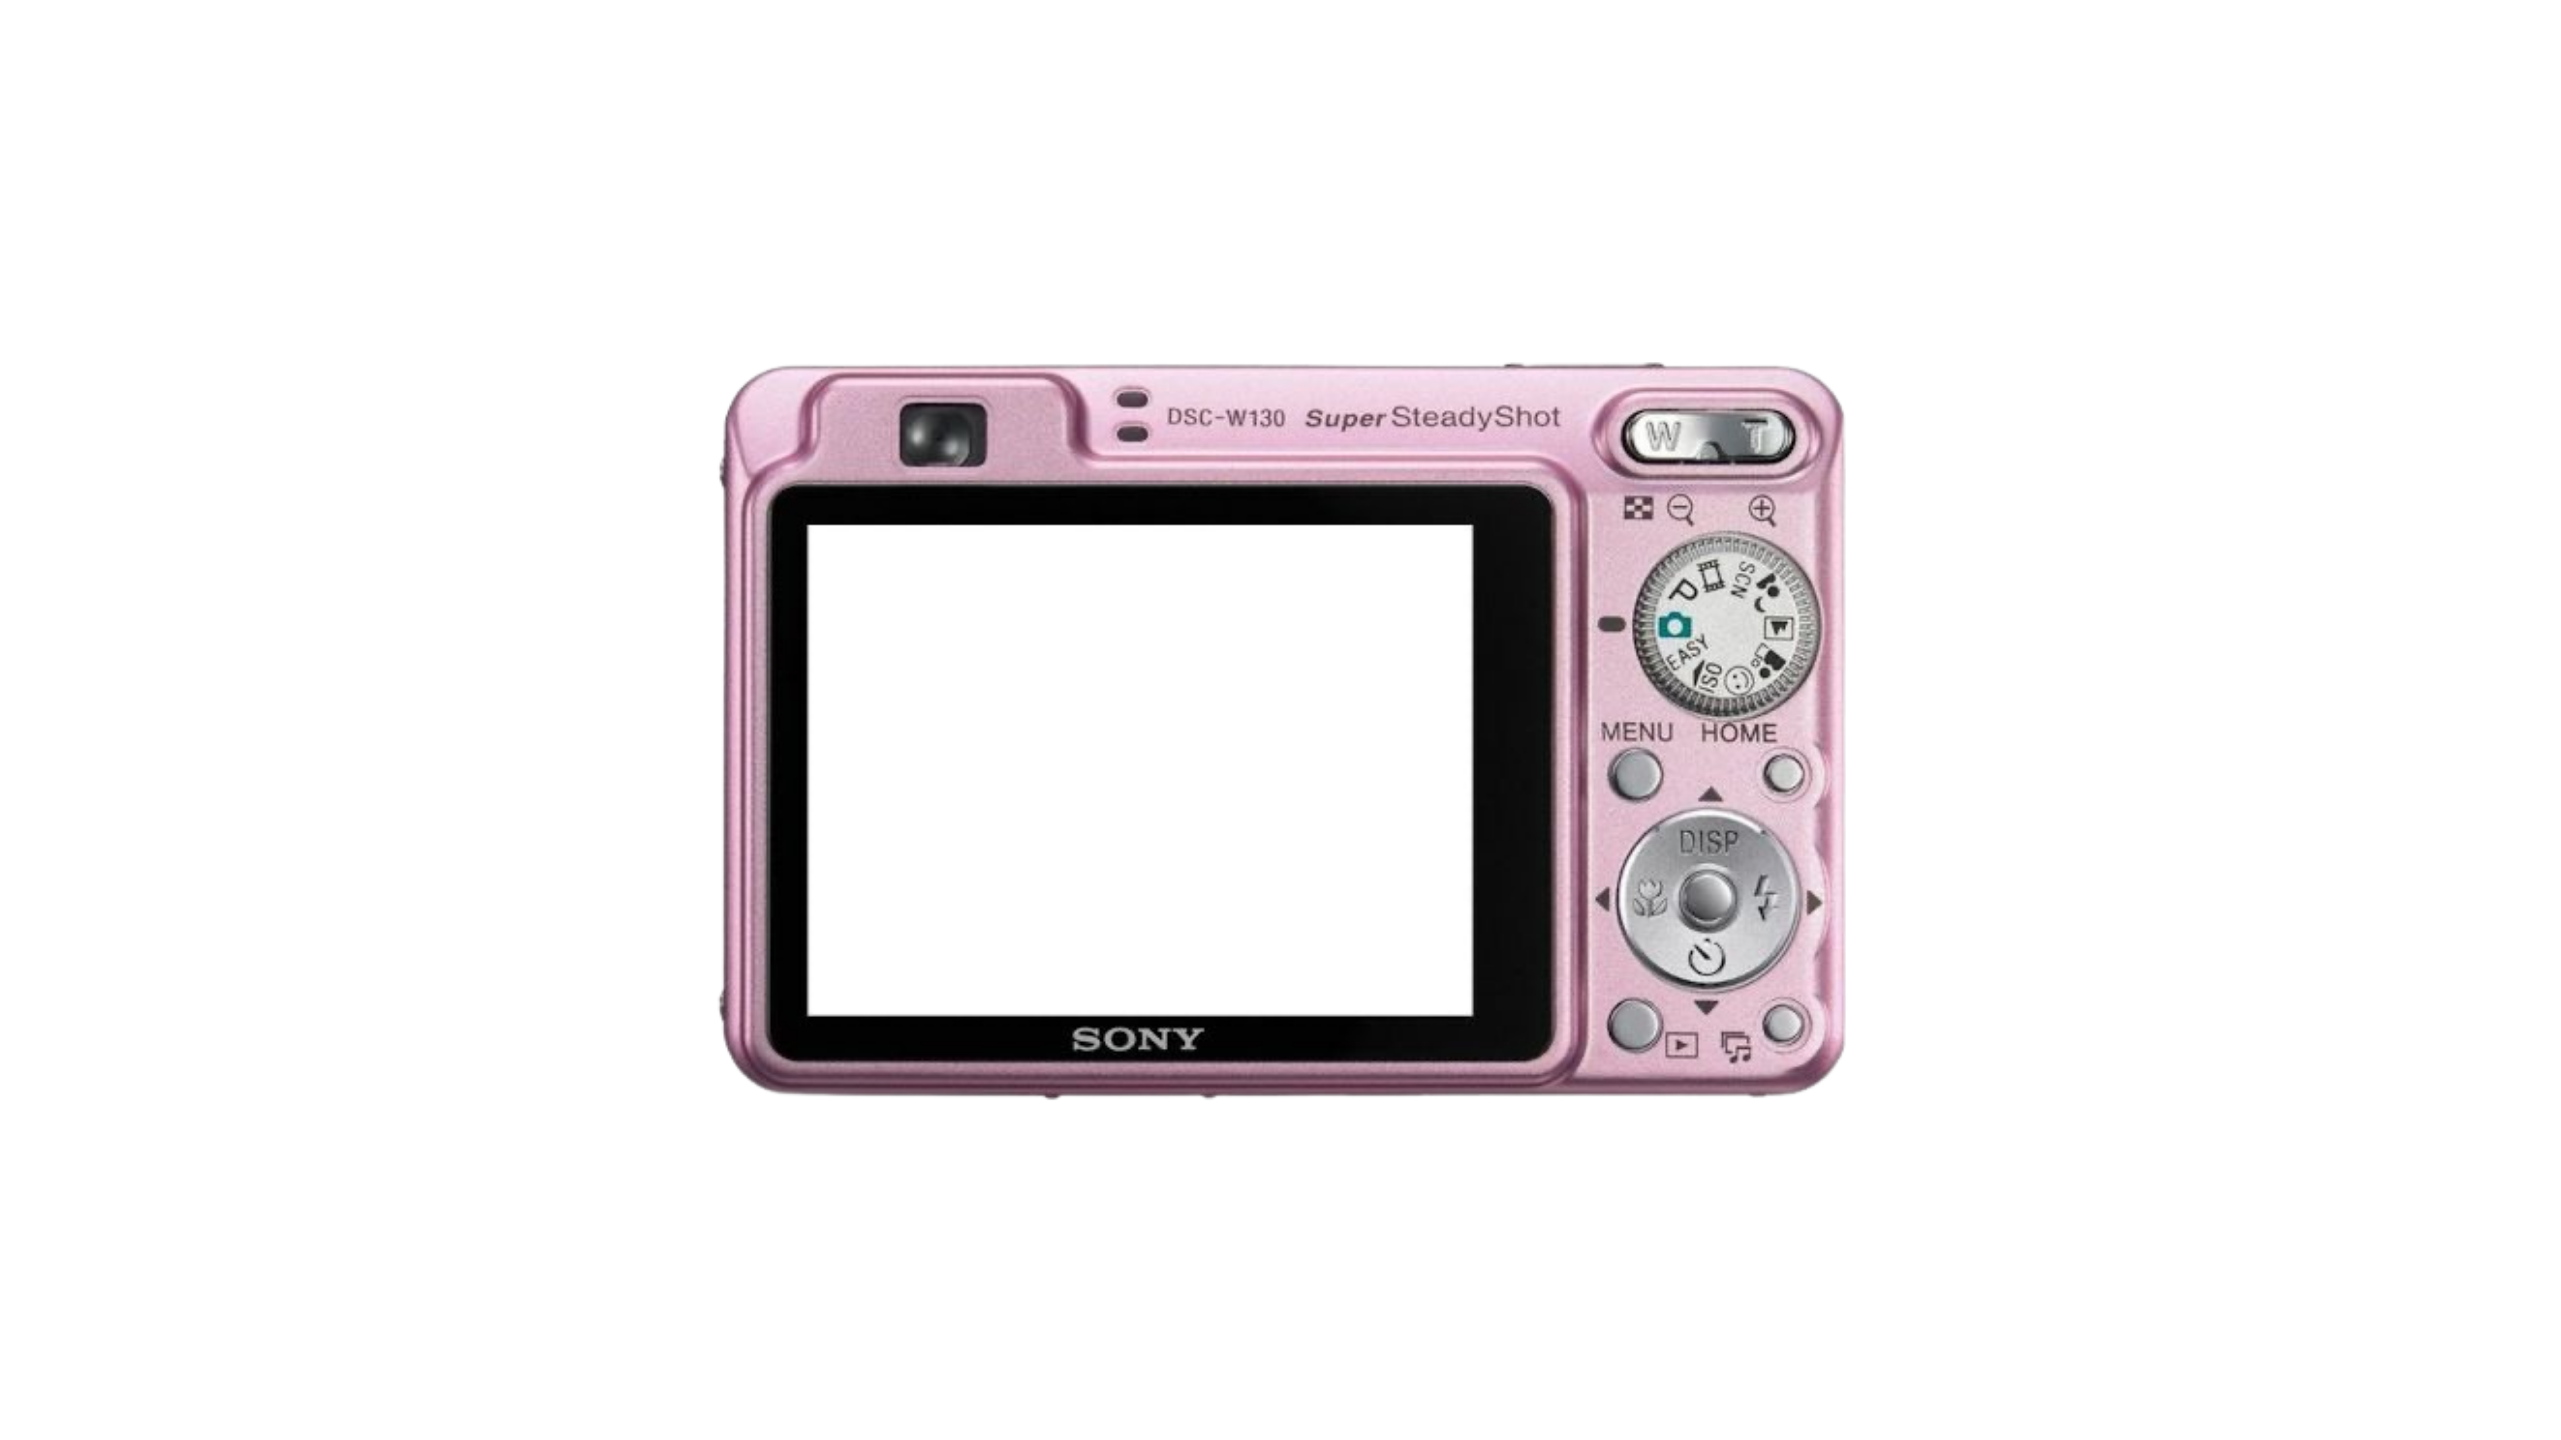
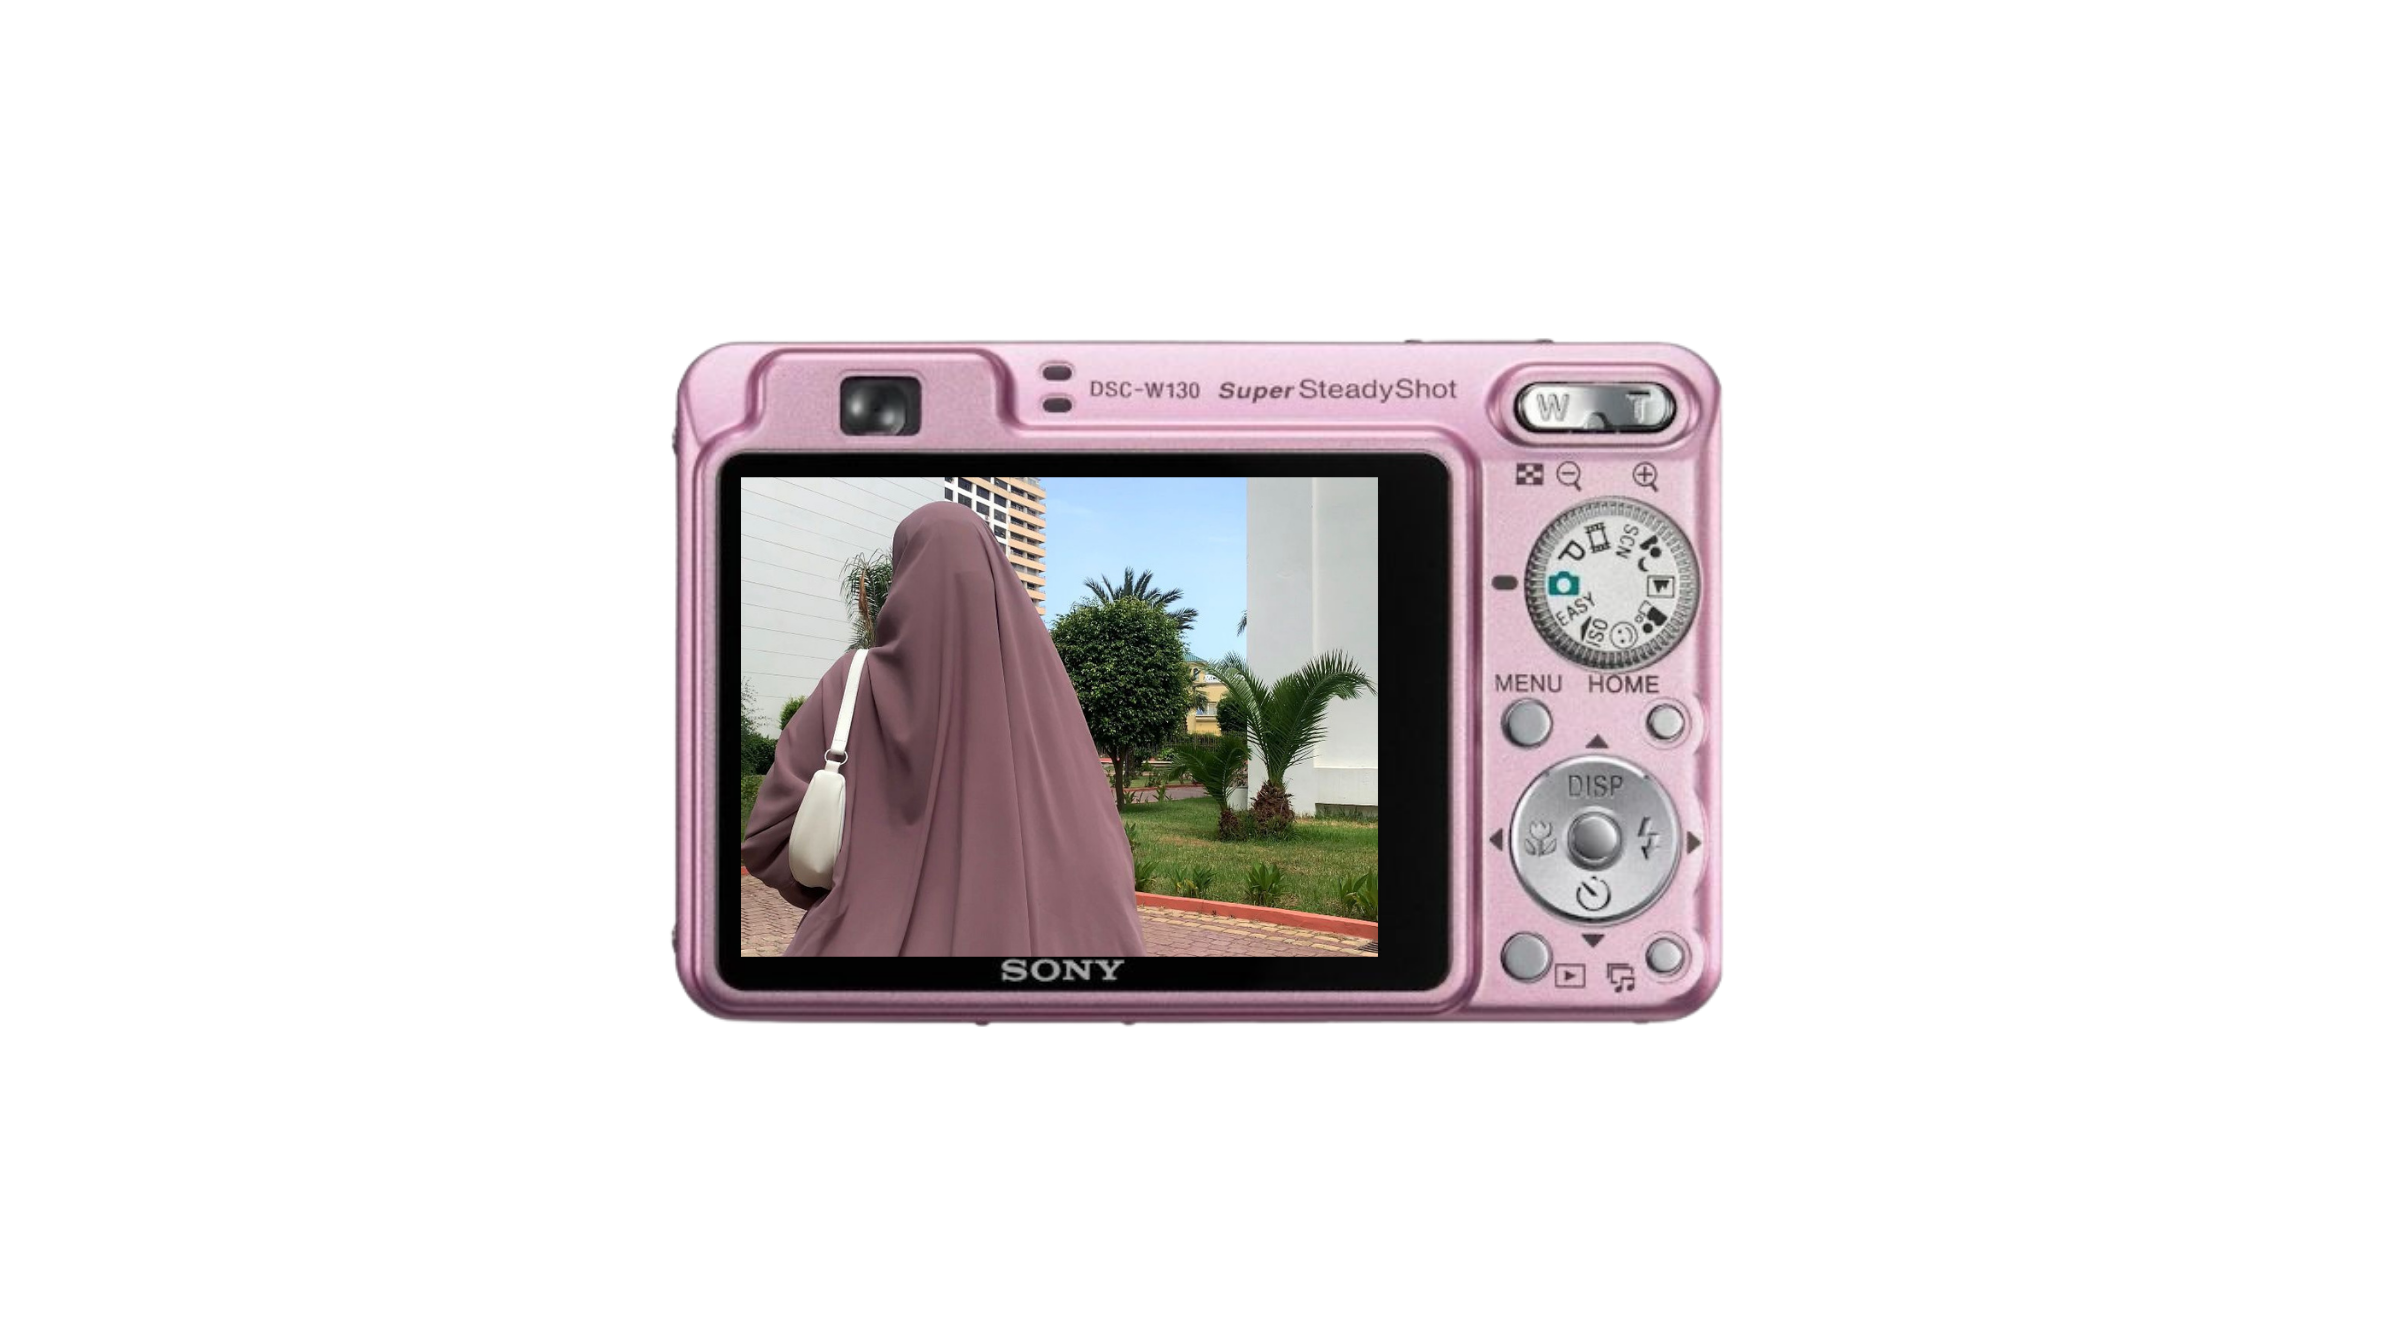
fix: digital camera img veranderd + toengangkelijk #7 #6

Changed region(s): [[0.3095, 0.3438, 0.588, 0.7188]]

diff --git a/profilecard/src/routes/+page.svelte b/profilecard/src/routes/+page.svelte
@@ -8,6 +8,12 @@
   </script>
   
   <main class="page">
+    <!-- Button -->
+    <AboutMeButton onClick={goToAbout} />
+  
+    <div class="camera-wrapper">
+      <img src="/digitalcamera.png" alt="Camera" class="camera" />
+    </div>
   </main>
   
   <style>
